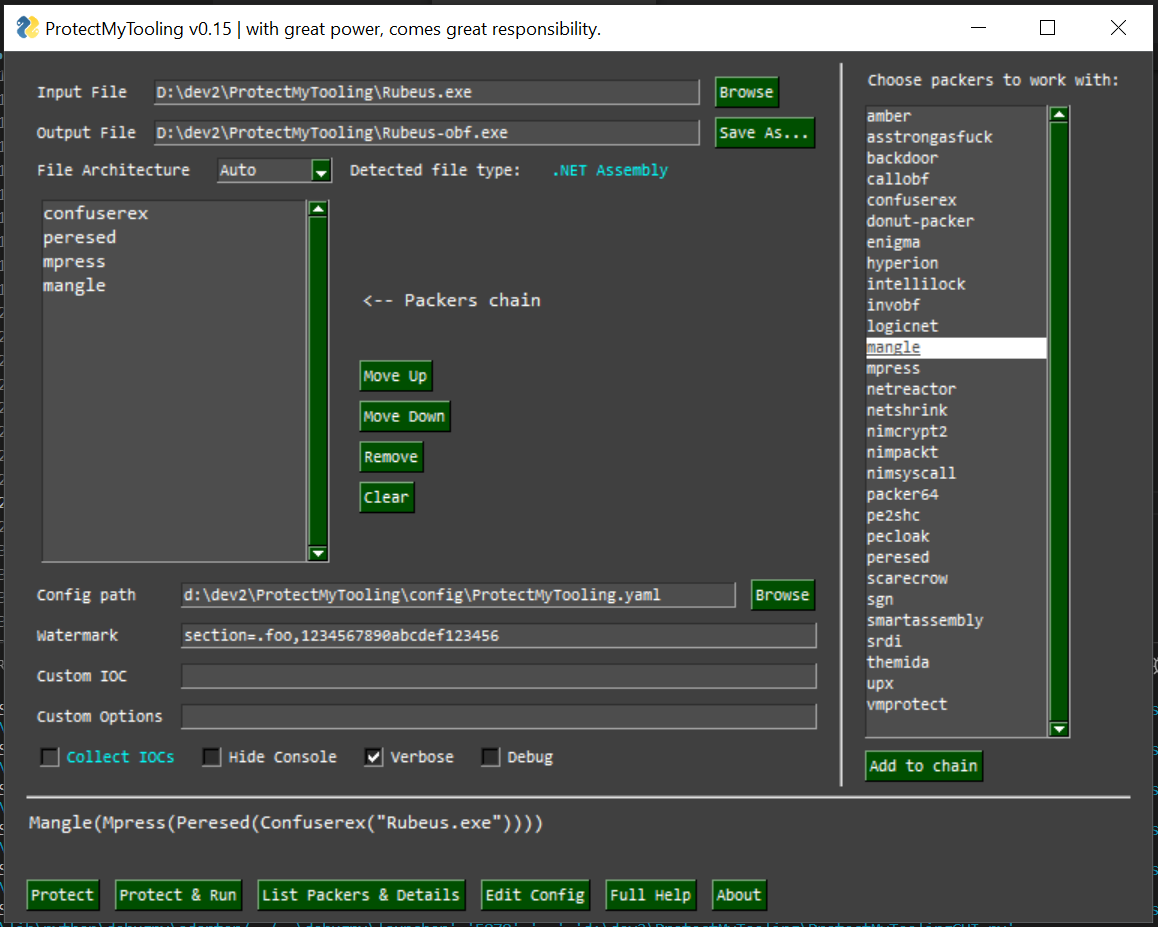
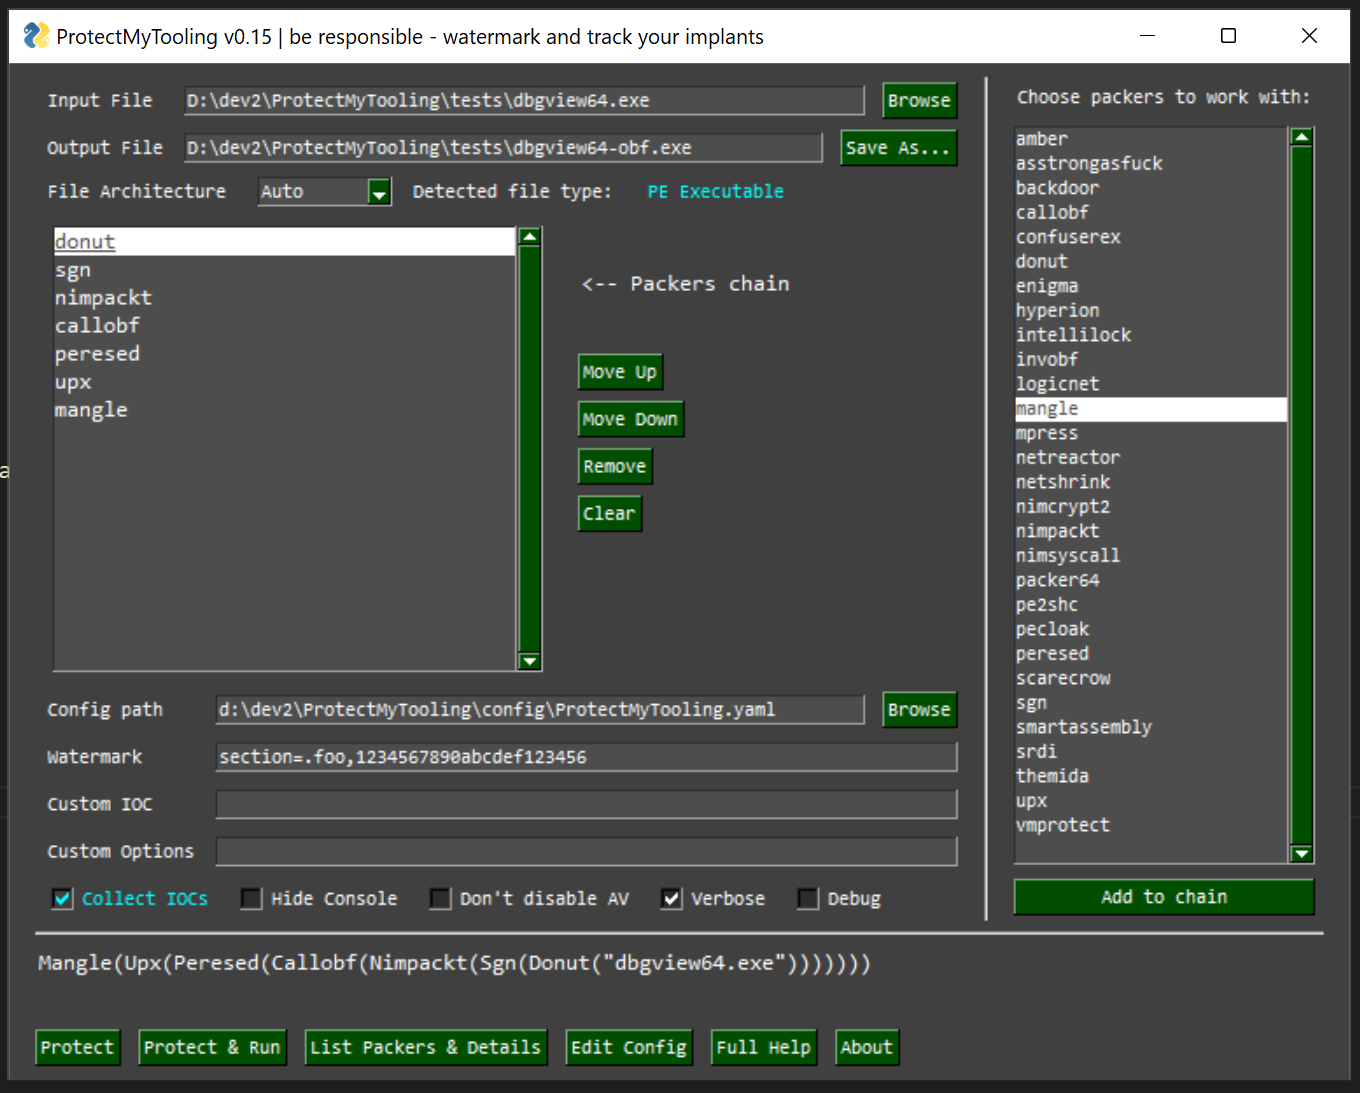
image

Changed region(s): [[0.0, 0.0, 1.0, 1.0], [0.4663, 0.2416, 0.5907, 0.2718], [0.0, 0.4229, 0.0311, 0.4531]]

diff --git a/ProtectMyToolingGUI.py b/ProtectMyToolingGUI.py
@@ -397,6 +397,9 @@ def main():
             name = os.path.basename(f).replace('.py', '')
 
             if name.lower() not in ['__init__', 'ipacker']:
+                if name in RenamePackerNameToPackerFile.values():
+                    name = list(RenamePackerNameToPackerFile.keys())[list(RenamePackerNameToPackerFile.values()).index(name)]
+                    
                 packersList.append(name)
 
     window = createWindow(packersList)
